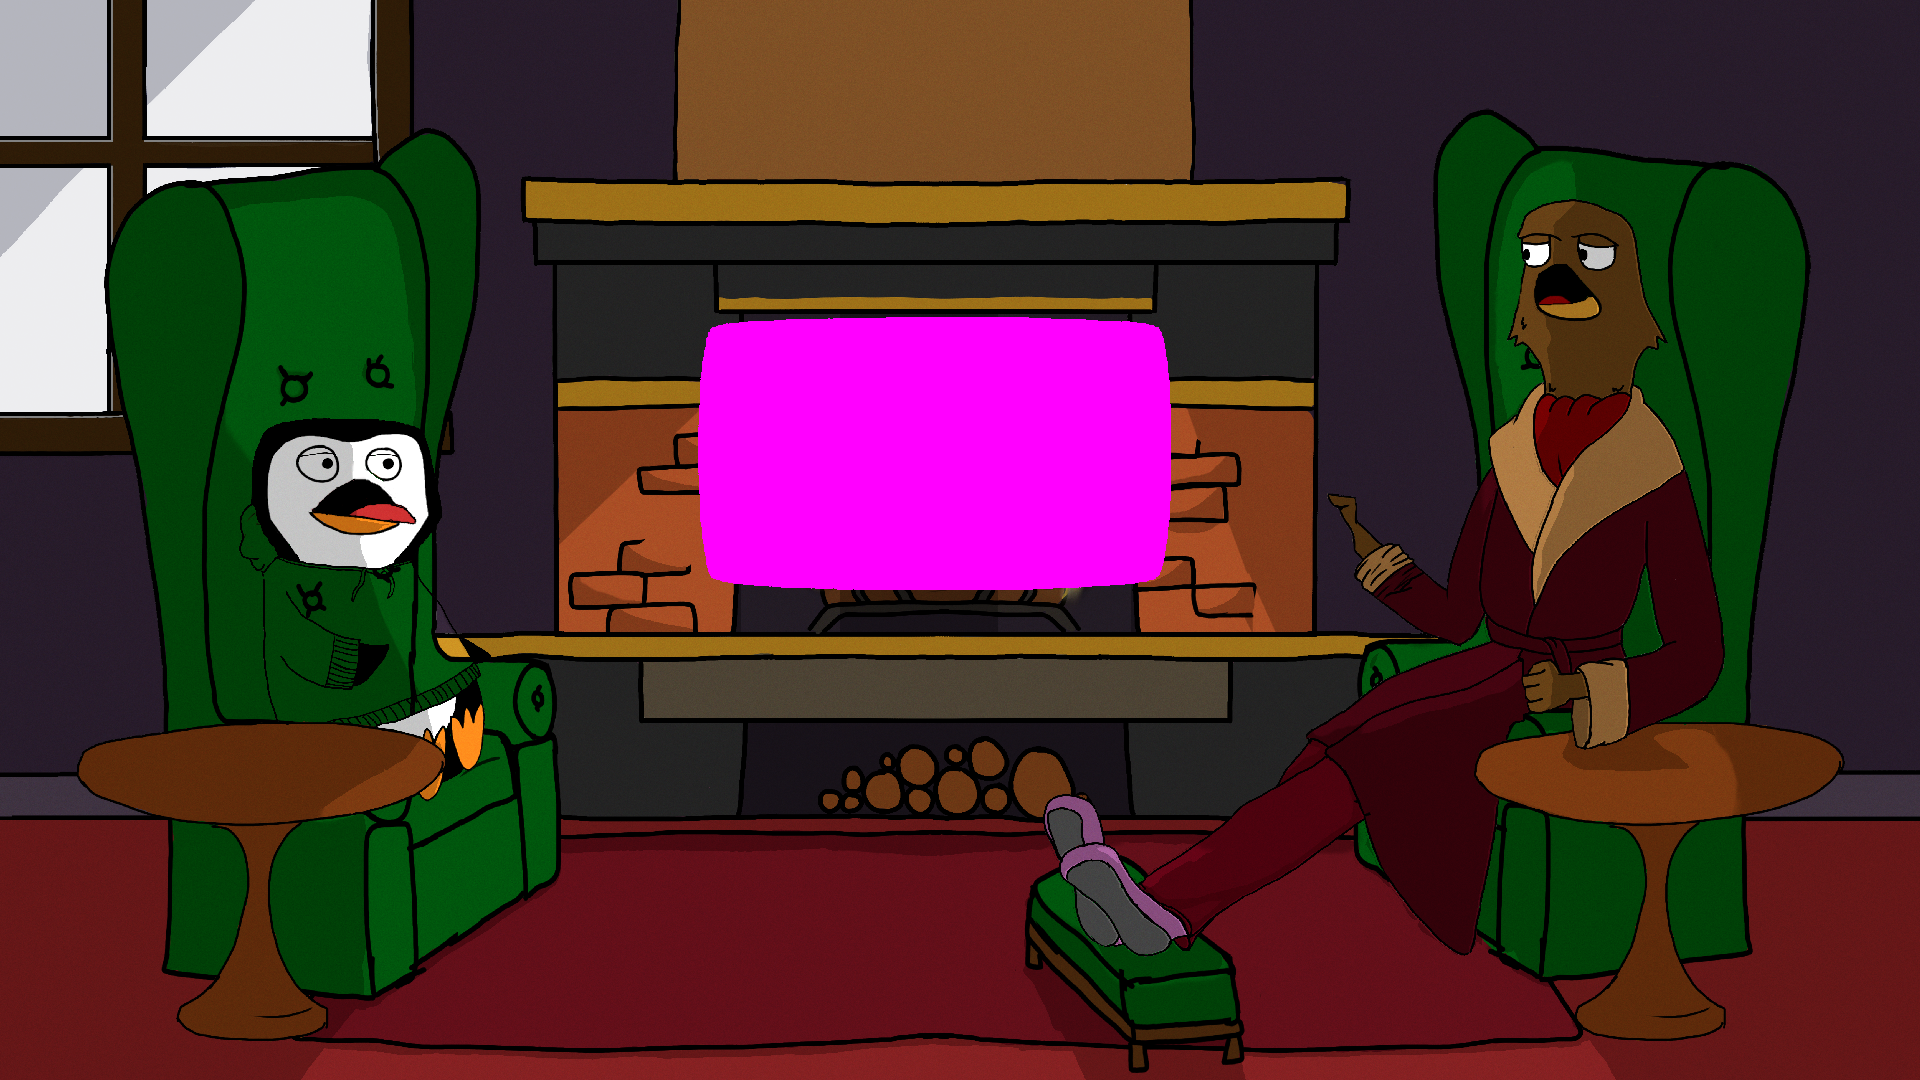
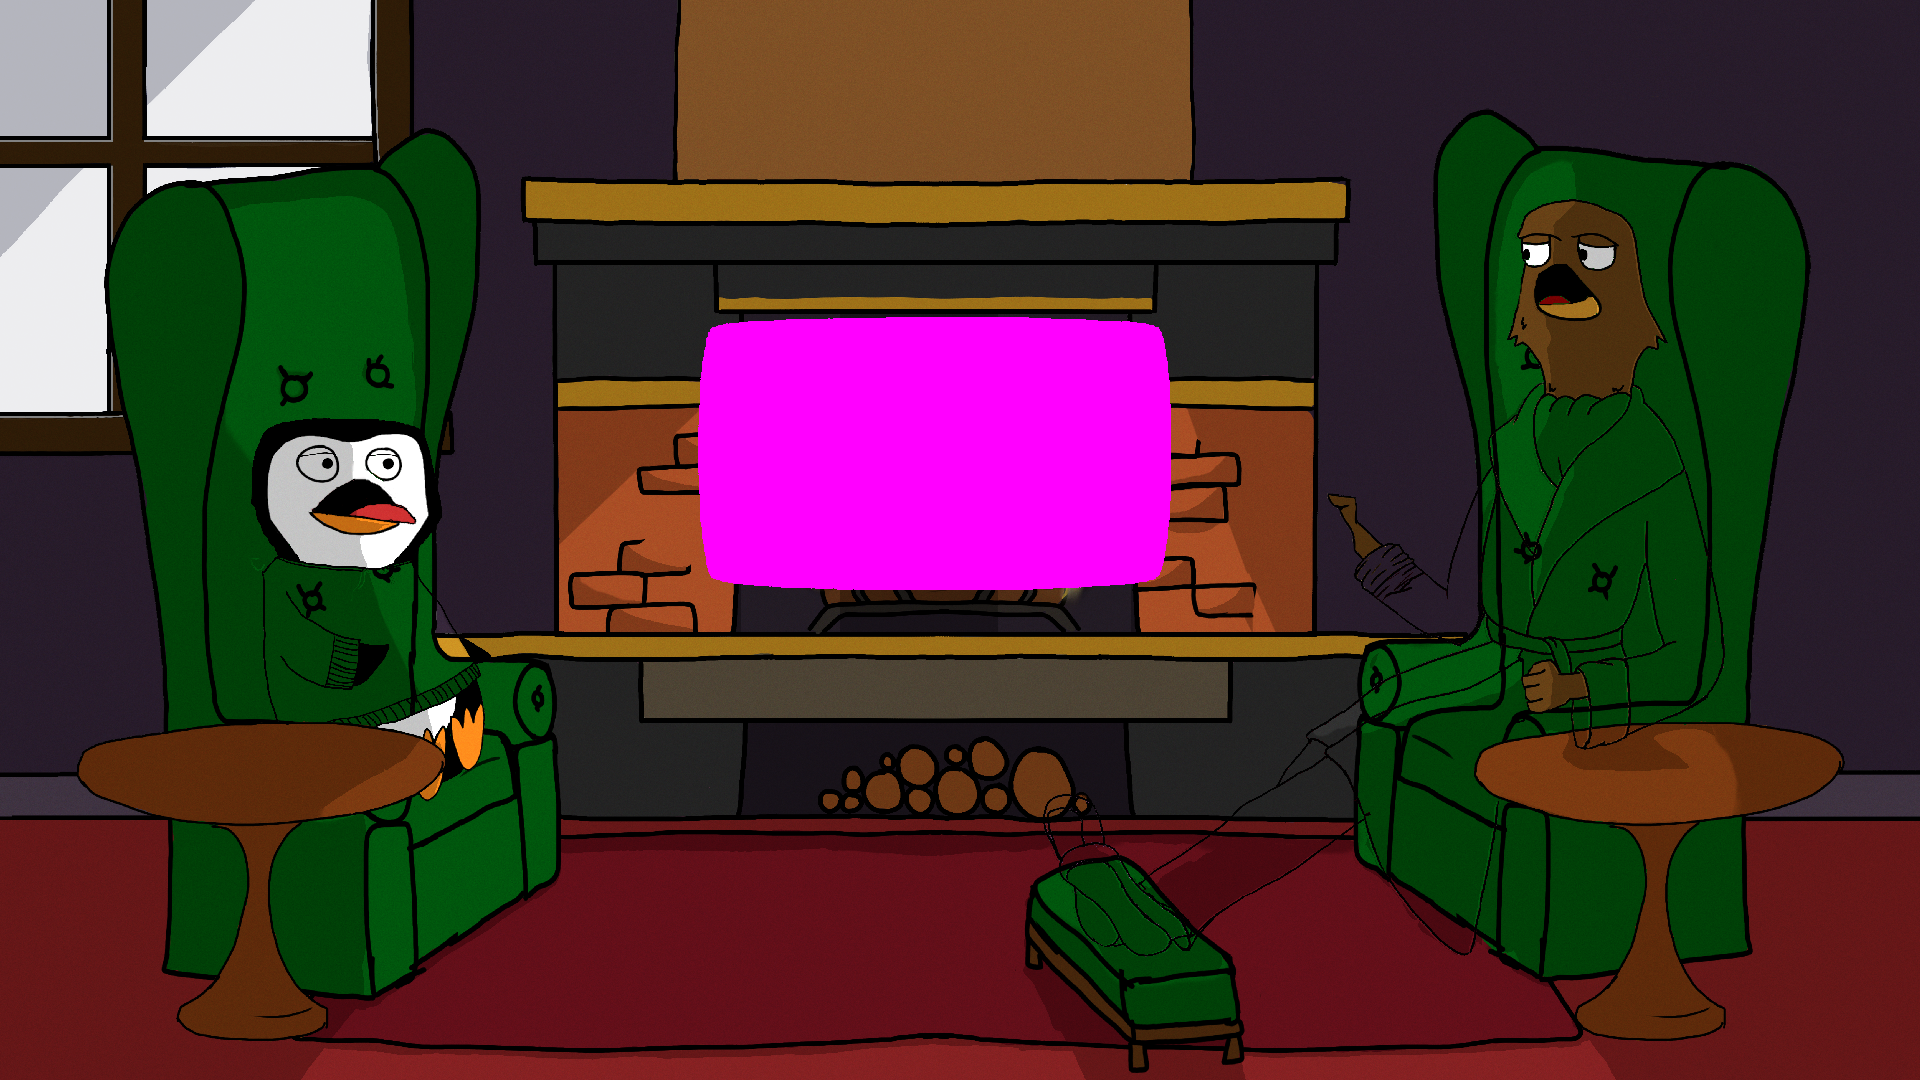
Enhance and expand prop library

Changed region(s): [[0.625, 0.3667, 0.9062, 0.8861], [0.5312, 0.7333, 0.625, 0.8861]]

diff --git a/src/data/testplate.ts b/src/data/testplate.ts
@@ -110,6 +110,45 @@ export const testplate: Template = {
             compositeType: 'overlay',
         },
         {
+            id: 'pengwyn-hoodie-clippy',
+            class: 'pengwyn-hoodie',
+            sprites: [
+                '/assets/sprites/pengwyn/hoodie_clippy.png',
+            ],
+            origin: {
+                x: 236,
+                y: 501,
+            },
+            propType: 'image',
+            compositeType: 'overlay',
+        },
+        {
+            id: 'pengwyn-hoodie-darland',
+            class: 'pengwyn-hoodie',
+            sprites: [
+                '/assets/sprites/pengwyn/hoodie_darland.png',
+            ],
+            origin: {
+                x: 236,
+                y: 501,
+            },
+            propType: 'image',
+            compositeType: 'overlay',
+        },
+        {
+            id: 'pengwyn-hoodie-cambria',
+            class: 'pengwyn-hoodie',
+            sprites: [
+                '/assets/sprites/pengwyn/hoodie_cambria.png',
+            ],
+            origin: {
+                x: 236,
+                y: 501,
+            },
+            propType: 'image',
+            compositeType: 'overlay',
+        },
+        {
             id: 'pengwyn-santa',
             class: 'pengwyn-hat',
             sprites: [
@@ -144,6 +183,58 @@ export const testplate: Template = {
             origin: {
                 x: 1379,
                 y: 263,
+            },
+            propType: 'image',
+            compositeType: 'overlay',
+        },
+        {
+            id: 'kiwi-gown',
+            class: 'kiwi-gown',
+            sprites: [
+                '/assets/sprites/kiwi/kiwiGown.png',
+            ],
+            origin: {
+                x: 1045,
+                y: 342,
+            },
+            propType: 'image',
+            compositeType: 'overlay',
+        },
+        {
+            id: 'kiwi-joeys',
+            class: 'kiwi-gown',
+            sprites: [
+                '/assets/sprites/kiwi/kiwiGown_joeys.png',
+            ],
+            origin: {
+                x: 1045,
+                y: 342,
+            },
+            propType: 'image',
+            compositeType: 'overlay',
+        },
+        {
+            id: 'kiwi-suit',
+            class: 'kiwi-gown',
+            sprites: [
+                '/assets/sprites/kiwi/kiwiGown_suit.png',
+            ],
+            origin: {
+                x: 1045,
+                y: 342,
+            },
+            propType: 'image',
+            compositeType: 'overlay',
+        },
+        {
+            id: 'kiwi-suit-jngil',
+            class: 'kiwi-gown',
+            sprites: [
+                '/assets/sprites/kiwi/kiwiGown_suit_jack.png',
+            ],
+            origin: {
+                x: 1045,
+                y: 342,
             },
             propType: 'image',
             compositeType: 'overlay',
